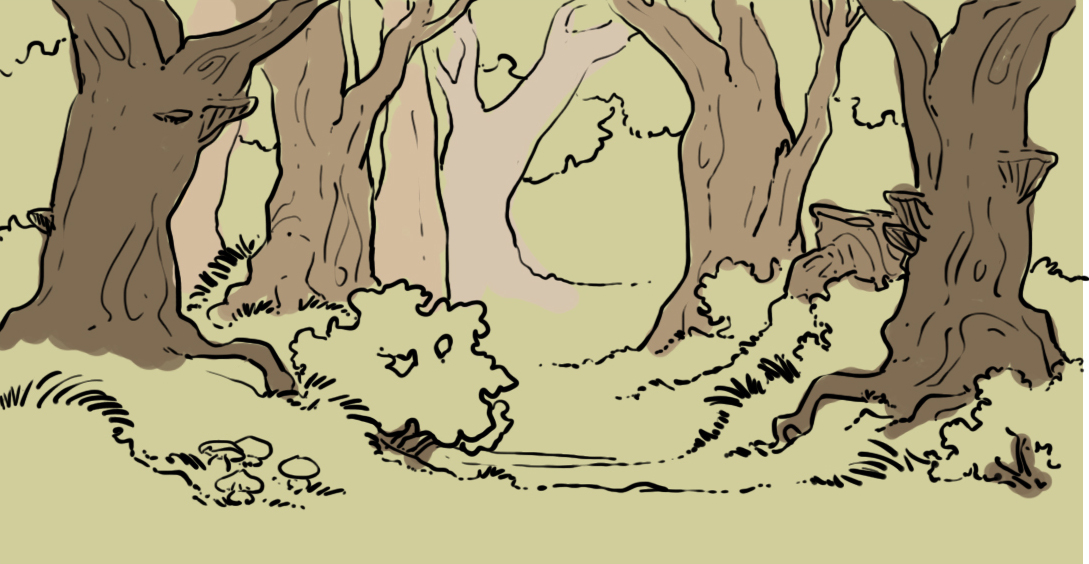
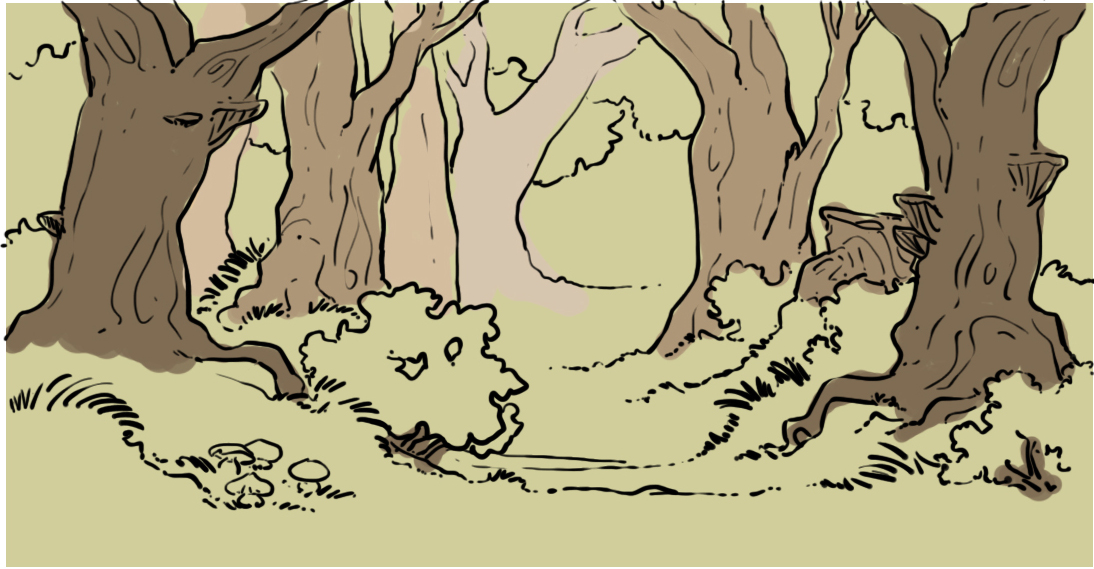
MàJ

Changed region(s): [[0.0, 0.0, 1.0, 1.0], [0.562, 0.6933, 0.5932, 0.7234]]

diff --git a/HTML-CSS : Avancée/Lucky/Lucky.css b/HTML-CSS : Avancée/Lucky/Lucky.css
@@ -10,17 +10,91 @@ body{
     height: 100%;
     background-image: url(/foret.jpg);
     background-repeat: no-repeat;
-    background-size: cover;
+    background-size: 2000px 1000px;
+    background-position-y: -10px;
     margin: 0;
     padding: 0;
 }
 
+.women img{
+    width: 150px;
+    height: 150px;
+}
 
-section{
-    width: 100%;
-    height: 100%;
-    display: flex;
-    flex-direction: row;
-    justify-content: flex-end;
-    align-items: flex-end;
+.pedo img{
+    width: 150px;
+    height: 150px;
+}
+
+.women{
+    position: absolute;
+    animation: animationwomen 3s infinite linear;
+    bottom: 38%;
+}
+
+.pedo{
+    position: absolute;
+    animation: animationpedo 3s infinite linear;
+    bottom:38%
+}
+
+.trappe{
+    position: absolute;
+    bottom: 38%;
+    left:57%;
+    height: 10px;
+    width: 100px;
+    background-color: rgb(110, 109, 109);
+    animation: trappeanimation 3s infinite;
+}
+
+.trappe2{
+    position: absolute;
+    bottom: 38%;
+    left:63%;
+    height: 10px;
+    width: 100px;
+    background-color: rgb(110, 109, 109);
+    animation: trappeanimation2 3s infinite;
+}
+
+@keyframes animationwomen{
+    0%{
+        left: 0%;
+    }
+    100%{
+        left: 110%;
+    }
+}
+
+@keyframes animationpedo{
+    0%{
+        left:-10%;
+    }
+    60%{
+        bottom:38%;
+        left:59%;
+    }
+    100%{
+        bottom:0%;
+        left:59%
+    }
+}
+
+@keyframes trappeanimation{
+    0%{transform: rotate(0deg);}
+    25%{transform: rotate(0deg);}
+    35%{transform: rotate(0deg);}
+    50%{transform: rotate(0deg);}
+    57%{transform: rotate(60deg);}
+    100%{transform: rotate(90deg);}
+}
+
+@keyframes trappeanimation2{
+    0%{transform: rotate(0deg);}
+    25%{transform: rotate(0deg);}
+    35%{transform: rotate(0deg);}
+    50%{transform: rotate(0deg);}
+    57%{transform: rotate(-60deg);}
+    100%{transform: rotate(-90deg);}
 }

diff --git a/HTML-CSS : Avancée/Lucky/Lucky.html b/HTML-CSS : Avancée/Lucky/Lucky.html
@@ -4,14 +4,16 @@
     <link rel="stylesheet" href="Lucky.css">
     <title>Lucky</title>
 </head>
-
-
-
-
-
 <body>
-    <section id="section">
-            <img id="run" src="/runbabyrun.jpg" alt="">
-    </section>
+    <div class="women" id="animation">
+        <img src="/women-runner-02-2.gif" alt="">
+    </div>
+
+    <div class="pedo" id="animation2">
+        <img src="/pedobear.gif" alt="">
+    </div>
+
+    <div class="trappe"></div>
+    <div class="trappe2"></div>
 </body>
 </html>
